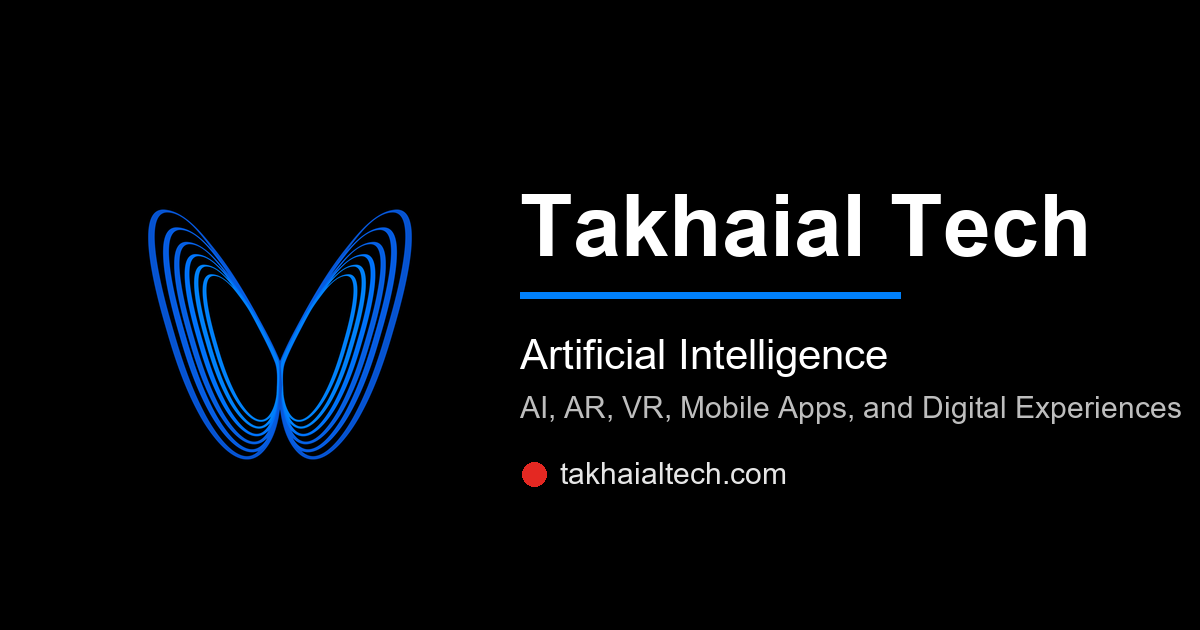
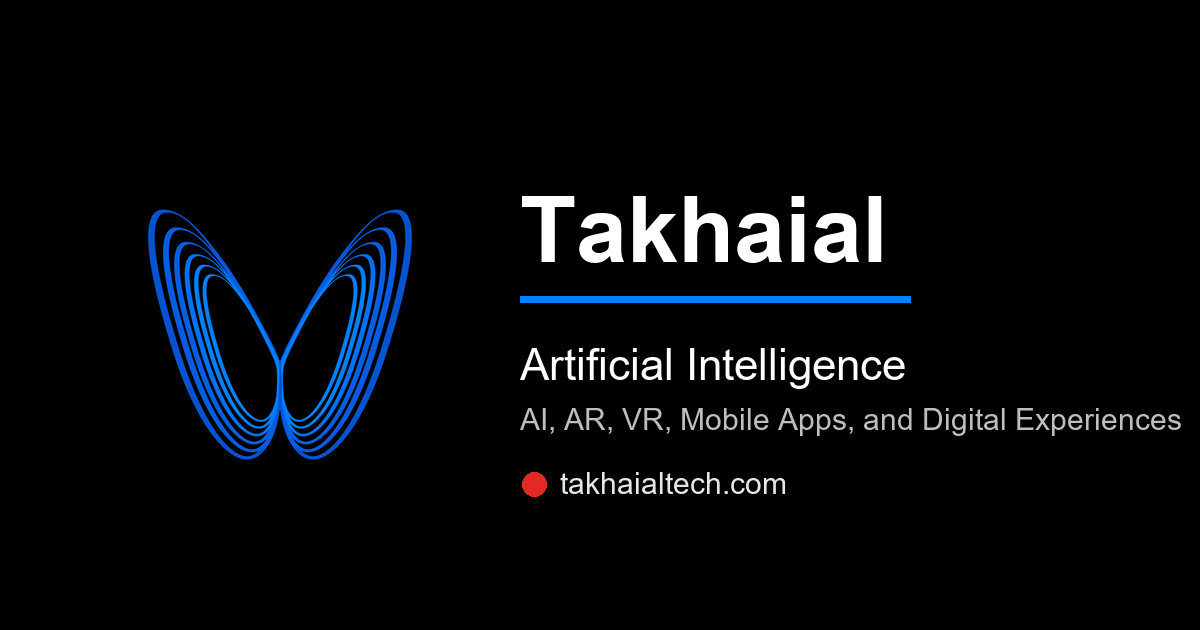
Update SEO title to Takhaial

diff --git a/public/index.html b/public/index.html
@@ -9,37 +9,37 @@
   <meta name="viewport" content="width=device-width, initial-scale=1" />
   <meta name="theme-color" content="#000000" />
   <meta name="description"
-    content="Takhaial Tech builds artificial intelligence, augmented reality, virtual reality, mobile applications, and immersive digital experiences for modern businesses." />
-  <meta name="keywords" content="Takhaial Tech, Artificial Intelligence, AI, Augmented Reality, AR, Virtual Reality, VR, mobile apps, immersive technology" />
+    content="Takhaial builds artificial intelligence, augmented reality, virtual reality, mobile applications, and immersive digital experiences for modern businesses." />
+  <meta name="keywords" content="Takhaial, Artificial Intelligence, AI, Augmented Reality, AR, Virtual Reality, VR, mobile apps, immersive technology" />
   <meta name="robots" content="index, follow" />
   <link rel="canonical" href="https://takhaialtech.com/" />
   <link rel="apple-touch-icon" href="%PUBLIC_URL%/logo192.png" />
   <link rel="manifest" href="%PUBLIC_URL%/manifest.json" />
   <meta property="og:type" content="website" />
-  <meta property="og:site_name" content="Takhaial Tech" />
-  <meta property="og:title" content="Takhaial Tech - Artificial Intelligence" />
+  <meta property="og:site_name" content="Takhaial" />
+  <meta property="og:title" content="Takhaial - Artificial Intelligence" />
   <meta property="og:description"
-    content="Artificial intelligence, AR, VR, mobile apps, and immersive digital experiences by Takhaial Tech." />
+    content="Artificial intelligence, AR, VR, mobile apps, and immersive digital experiences by Takhaial." />
   <meta property="og:url" content="https://takhaialtech.com/" />
   <meta property="og:image" content="https://takhaialtech.com/takhaial-og-image.png" />
   <meta property="og:image:width" content="1200" />
   <meta property="og:image:height" content="630" />
-  <meta property="og:image:alt" content="Takhaial Tech - Artificial Intelligence" />
+  <meta property="og:image:alt" content="Takhaial - Artificial Intelligence" />
   <meta name="twitter:card" content="summary_large_image" />
-  <meta name="twitter:title" content="Takhaial Tech - Artificial Intelligence" />
+  <meta name="twitter:title" content="Takhaial - Artificial Intelligence" />
   <meta name="twitter:description"
-    content="Artificial intelligence, AR, VR, mobile apps, and immersive digital experiences by Takhaial Tech." />
+    content="Artificial intelligence, AR, VR, mobile apps, and immersive digital experiences by Takhaial." />
   <meta name="twitter:image" content="https://takhaialtech.com/takhaial-og-image.png" />
   <script type="application/ld+json">
     {
       "@context": "https://schema.org",
       "@type": "Organization",
-      "name": "Takhaial Tech",
-      "alternateName": "Takhaial",
+      "name": "Takhaial",
+      "alternateName": "Takhaial Tech",
       "url": "https://takhaialtech.com/",
       "logo": "https://takhaialtech.com/takhaial-logo-512.png",
       "image": "https://takhaialtech.com/takhaial-og-image.png",
-      "description": "Takhaial Tech builds artificial intelligence, augmented reality, virtual reality, mobile applications, and immersive digital experiences.",
+      "description": "Takhaial builds artificial intelligence, augmented reality, virtual reality, mobile applications, and immersive digital experiences.",
       "email": "info@takhaialtech.com",
       "telephone": "+201500683889",
       "sameAs": [
@@ -50,7 +50,7 @@
       ]
     }
   </script>
-  <title>Takhaial Tech - Artificial Intelligence</title>
+  <title>Takhaial - Artificial Intelligence</title>
   
   <!-- Inter Font -->
   <link
